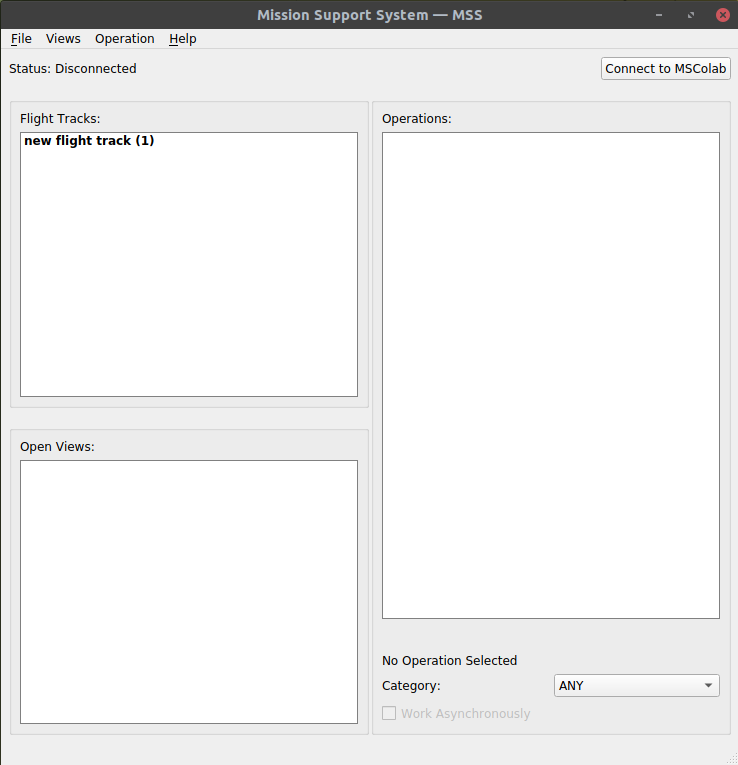
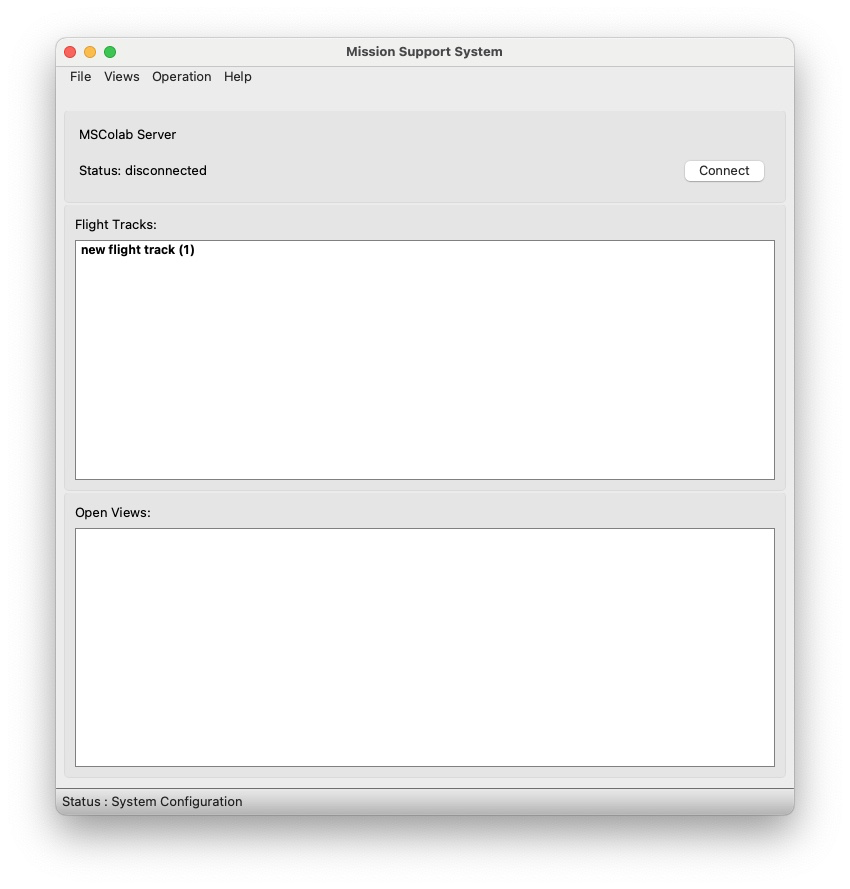
updates for v10 based on pixi (#49)

Changed region(s): [[0.0, 0.0, 1.0, 0.9621], [0.9973, 0.9922, 1.0, 1.0]]

diff --git a/docs/02_installation.md b/docs/02_installation.md
@@ -8,48 +8,105 @@ permalink: /install/
 ![image](https://img.shields.io/badge/Install%20with-conda-green.svg?style=flat-square)
 
 
-## Install distributed version by conda
+## Install by pixi
 
 
-We are based on [miniforge](https://github.com/conda-forge/miniforge#download),
-which provides the minimal installers for Conda and Mamba specific to conda-forge. The packages of the base are from the conda-forge channel.
-conda-forge is the default and only channel configured.
-MSS is available as a conda package on the channel.
+The Mission Support System (MSS) including a Web Map Service (MSWMS), a Collaboration Server (MSColab)
+and a Graphical User Interface (MSUI) is available as a [conda-forge](https://anaconda.org/conda-forge/mss) package.
 
-[conda-forge/mss](https://anaconda.org/conda-forge/mss)
+This channel conda-forge has builds for linux-64, osx-64, win-64, osx-arm64
 
-The conda-forge channel has builds for osx-64, linux-64 and win-64.
+The conda-forge [github organization](https://conda-forge.github.io/) uses various automated
+continuous integration build processes.
 
-The conda-forge [github organization](https://conda-forge.github.io/)
-uses various automated continuous integration build processes.
+In 2024, the workflow that has packages co-installed from Anaconda's channel and conda-forge is no longer supported.
+We recommend since version 10.0.0 of MSS to use [pixi](https://pixi.sh/latest/) for an installation.
+Get **pixi** from https://pixi.sh/latest/ for your operation system.
 
+You can now decide if you want to install **mss** as global or a project.
 
-You must install mss into a new environment to ensure the most recent
-versions for dependencies:
+### Global Installation
 
-    $ mamba create -n mssenv mss
-    $ mamba activate mssenv
-    (mssenv) $ mss -h
+You can install **mss** globally without defining a project first.
+This method is practical when you are interested in starting the client and don't need server configurations.
 
-Afterwards reactivate the environment, this sets all env variables needed.
+```sh
+pixi global install mss
+```
 
-    (mssenv) $ mamba deactivate
-    $ mamba activate mssenv
+#### Usage
 
-For updating an existing MSS installation to the current version, it is
-best to install it into a new environment. If an existing environment
-shall be updated, it is important to update all packages in this
-environment. 
+```sh
+msui
+mswms -h
+mscolab -h
+mssautoplot -h
+```
 
-    $ mamba activate mssenv
-    (mssenv) $ mamba update mss
-    (mssenv) $ mamba update --all
+#### Updating
+
+```sh
+pixi global update mss
+```
+
+### Project Installation
+
+Initialize a new project and navigate to the project directory:
+
+```sh
+pixi init MSS
+cd MSS
+```
+
+Use the shell command to activate the environment and start a new shell in there.
+
+```sh
+pixi shell
+```
+
+Add the **mss** dependencies from conda-forge.
+
+```sh
+(MSS) pixi add mss
+```
+
+#### Usage
+
+Always, when you want to start **mss** programs after its installation,
+you have to activate the environment by `pixi shell` in the project dir.
+On the very first start of **msui**, it takes a bit longer because it setup fonts.
+
+```sh
+cd MSS
+pixi shell
+```
+
+```sh
+(MSS) msui
+(MSS) mswms -h
+(MSS) mscolab -h
+(MSS) mssautoplot -h
+```
+
+#### Upgrading
+
+```sh
+cd MSS
+pixi shell
+(MSS) pixi upgrade mss
+```
+
 
 ## Usage
-### GUI
-To start the MSS UI you can lookup for "mss" on your desktop program manager or use a terminal  
 
-    (mssenv) $ mss
+We describe the global installation.
+
+### GUI
+To start the MSS UI you have to use a terminal.
+
+```sh
+$ msui
+```
 
 > ![image](/assets/msui.png)
 
@@ -59,8 +116,10 @@ The configuration is described in the section
 ### mswms server
 To try out the setup you can use demo data. Read about a [server based installation](https://mss.readthedocs.io/en/stable/deployment.html). 
 
-    (mssenv) $ mswms_demodata --seed
-    (mssenv) $ mswms
+```sh
+    $ mswms_demodata --seed
+    $ mswms
+```
 
 This data is then available on localhost:8081.
 The capabilities can be read on a [web browser](http://localhost:8081/?service=WMS&request=GetCapabilities&version=1.1.1) too. 
@@ -70,9 +129,10 @@ The capabilities can be read on a [web browser](http://localhost:8081/?service=W
 ### mscolab server
 To tryout the setup you can use demo data. Read about a [server based installation](https://mss.readthedocs.io/en/stable/mscolab.html).
 
-    (mssenv) $ mscolab db --init
-    (mssenv) $ mscolab db --seed
-    (mssenv) $ mscolab start
+```sh
+    $ mscolab db --seed
+    $ mscolab start
+```
 
 The service is than availale on localhost:8083 and can be verified by the [server status](http://127.0.0.1:8083/status) 
 

diff --git a/docs/develop/Setup-Instructions.md b/docs/develop/Setup-Instructions.md
@@ -5,86 +5,93 @@ permalink: /develop/Setup-Instructions
 exclude: true
 ---
 
-## Environment Setup
+## Setup for development
 
-### Install distributed version by mamba
+Pixi is a package management tool for developers. It allows the developer to install libraries and
+applications in a reproducible way. Use pixi cross-platform, on Windows, Mac and Linux.
 
-Install miniforge on your system.
+Install pixi on your system.
 
-[Miniforge](https://github.com/conda-forge/miniforge#download) provides the minimal installers 
-for Conda and Mamba specific to conda-forge. The packages of the base are from the conda-forge channel.
-conda-forge is the default and only channel configured.
+[Pixi](https://pixi.sh) provides the minimal installers
+specific to conda-forge. conda-forge is the default channel configured.
 
 MSS is available as a package on the channel conda-forge.
 
 [conda-forge/mss](https://anaconda.org/conda-forge/mss)
 
-The conda-forge channel has builds for osx-64, linux-64 and win-64.
+The conda-forge channel has builds for osx-64, osx-arm64, linux-64 and win-64.
 
-You must install mss into a new environment to ensure the most recent
-versions for dependencies. :
 
-    $ mamba create -n mssdev mss --only-deps
-    $ mamba activate mssdev
-    (mssdev) $ 
+#### Setup an environment for development
 
-Afterwards reactivate the environment, this sets all env variables needed.
+The dependencies necessary to get a working development environment for MSS are specified in pixi.toml and pixi.lock inside the repository.
+This means you can get a shell with all required packages installed using
 
-    (mssdev) $ mamba deactivate
-    $ mamba activate mssdev
+```sh
+    pixi shell -e dev
+```
 
-### Installing development specific packages
+Afterwards, a call to e.g.
 
-Between the released and the develop version we have differences in used packages:
+```sh
+    msui
+```
 
-    git diff stable develop -- localbuild/meta.yaml
-    
-Update accordingly of the output.
+will run the development version of msui.
 
-For testing and building docs you need to install the these packages by running the following command:
+You can also use pixi's "run" subcommand to directly run a command in the development environment, like so::
 
-    (mssdev) $ mamba install --file MSS/requirements.d/development.txt
+```sh
+    pixi run -e dev msui
+```
+
 
 ## Running The Application
 
 MSS has 3 main components. These are MSUI (GUI), MSWMS (web map server) and MSCOLAB (collaboration server). You can run all 3 components individually on your system. 
 (Before running any of the commands make sure you have activated your environment.)
 
-You need to first add the main mss folder which will be created in your home directory to your python path. Go into the cloned repo and update your python path:
+You need to first add the mss folder where additional configurations can become provided.
+There the mswms_demodata adds the mswms demo server configuration. 
 
+```sh
     $ cd MSS
-    $ export PYTHONPATH="`pwd`:$HOME/mss"
+    $ pixi shell -e dev
+    $ (MSS) export PYTHONPATH=$HOME/mss"
+```
 
 To start the MSS PyQT application:
-
-    (mssdev) $ python mslib/msui/msui.py
-
+```sh
+    (MSS) $ msui
+```
 When running MSWMS for the first time. Use the following command to create some dummy data:
-
-    (mssdev) $ python mslib/mswms/demodata.py --seed
-
+```sh
+    (MSS) $ mswms_demodata --seed
+```
 To start MSWMS:
-
-    (mssdev) $ python mslib/mswms/mswms.py
-
+```sh
+    (MSS) $ mswms
+```
 When running MSCOLAB for the first time you need to initialize your database (SQLite by default):
 
-    (mssdev) $ python mslib/mscolab/mscolab.py db --init
-
+```sh
+    (MSS) $ mscolab db --init
+```
 If you want to seed your MSCOLAB database you can run:
 
-    (mssdev) $ python mslib/mscolab/mscolab.py db --seed
+```sh
+    (MSS) $ mscolab db --seed
+```
 
 To start MSCOLAB server:
 
-    (mssdev) $ python mslib/mscolab/mscolab.py start
-
+```sh
+    (MSS) $ mscolab start
+```
 ## Running Tests
-
-On linux install the conda package pyvirtualdisplay and xvfb from your linux package manager. This is used to run tests on a virtual display. If you don’t want tests redirected to the xvfb display just setup an environment variable:
-
-    $ export TESTS_VISIBLE=TRUE
 
 To run the tests:
 
-    (mssdev) $ pytest --cov mslib
+```sh
+    (MSS) $ pytest --cov mslib
+```

diff --git a/docs/04_gsoc.md b/docs/04_gsoc.md
@@ -23,7 +23,7 @@ If you have any question please feel free to ask any of the mentors on our #gsoc
 We have labled small sized issues as "good first issue" on <https://github.com/Open-MSS/MSS/issues>.
 
 # Getting Started
- - You can quickly setup MSS on your machine by following the steps given in our [setup instructions](/develop/Setup-Instructions). If you want to use Docker you can follow the steps in our [docker setup guide](/develop/docker_images). For more details, you can read [Mission Support System’s Documentation](https://mss.readthedocs.io/en/stable)
+ - You can quickly setup MSS on your machine by following the steps given in our [setup instructions](/develop/Setup-Instructions).  For more details, you can read [Mission Support System’s Documentation](https://mss.readthedocs.io/en/stable)
  - You can go through the issues labelled as [good first issue](https://github.com/Open-MSS/MSS/issues?q=is%3Aissue+is%3Aopen+label%3A%22good+first+issue%22) on our github repository and pick an issue you feel you can take up. Please write a comment on the issue you're taking up so multiple people don't work on the same issue. If you have any doubts related to the issue feel free to ask us on the Slack channel. You can also report any new issue you find on the Slack channel itself.
  - Once you've found the issue you want to work on you need to create a new branch on your local clone of the project and start working on it. As a general rule of thumb, bug fixes go to the `stable` branch while enhancements and other new features go to the `develop` branch. Generally it is mentioned in the issue itself which branch the fix needs to go. Otherwise you can always ask us on Slack.
  - To start working, create a new git branch, write your code, commit it and push this branch to your fork. Now create a pull request to the Master Repo's `develop` or `stable` branch. All pull requests must pass the test pipeline before they are merged.

diff --git a/docs/develop/Getting-Started.md b/docs/develop/Getting-Started.md
@@ -17,10 +17,8 @@ exclude: true
 -   Are there any unusual libraries/applications that need to be
     installed first?
 
-    We are based on [miniforge](https://github.com/conda-forge/miniforge#download) and [conda-forge](https://conda-forge.org/). 
+    We are based on [pixi](https://pixi.sh/latest/) and [conda-forge](https://conda-forge.org/).
     All development is done with python 3.
-
-    On linux install `xvfb` and the conda package `pyvirtualdisplay`. This is used to run tests on a virtual display.  
 
 
 -   How do I have to setup my environment?
@@ -28,10 +26,10 @@ exclude: true
     Dependent on the IDE there are differences, we try to describe this for anycase.
  
       * Verify by `pytest` in your MSS directory that tests are executed
-      * `python workspace/MSS/mslib/mswms/demodata.py -h` (see output on screen)
-      * `python workspace/MSS/mslib/mswms/mswms.py -h`
-      * `python workspace/MSS/mslib/msui/msui.py -h`
-      * `python workspace/MSS/mslib/mscolab/server.py -h`
+      * `mswms_demodata -h` (see output on screen)
+      * `mswms -h`
+      * `msui -h`
+      * `mscolab -h`
     
 
 -   What type of source control do you use? 

diff --git a/docs/03_contributing.md b/docs/03_contributing.md
@@ -16,7 +16,7 @@ MSS is completely written in Python. The GUI is built using [PyQT5](https://www.
 
 ## Setup Instructions
 
-You can quickly setup MSS on your machine by following the steps given in our [setup instructions](/develop/Setup-Instructions). If you want to use Docker you can follow the steps in our [docker setup guide](/develop/docker_images). For more details, you can read [Mission Support System’s Documentation](https://mss.readthedocs.io/en/stable)
+You can quickly setup MSS on your machine by following the steps given in our [setup instructions](/develop/Setup-Instructions).
 
 ## Finding Issues
 
